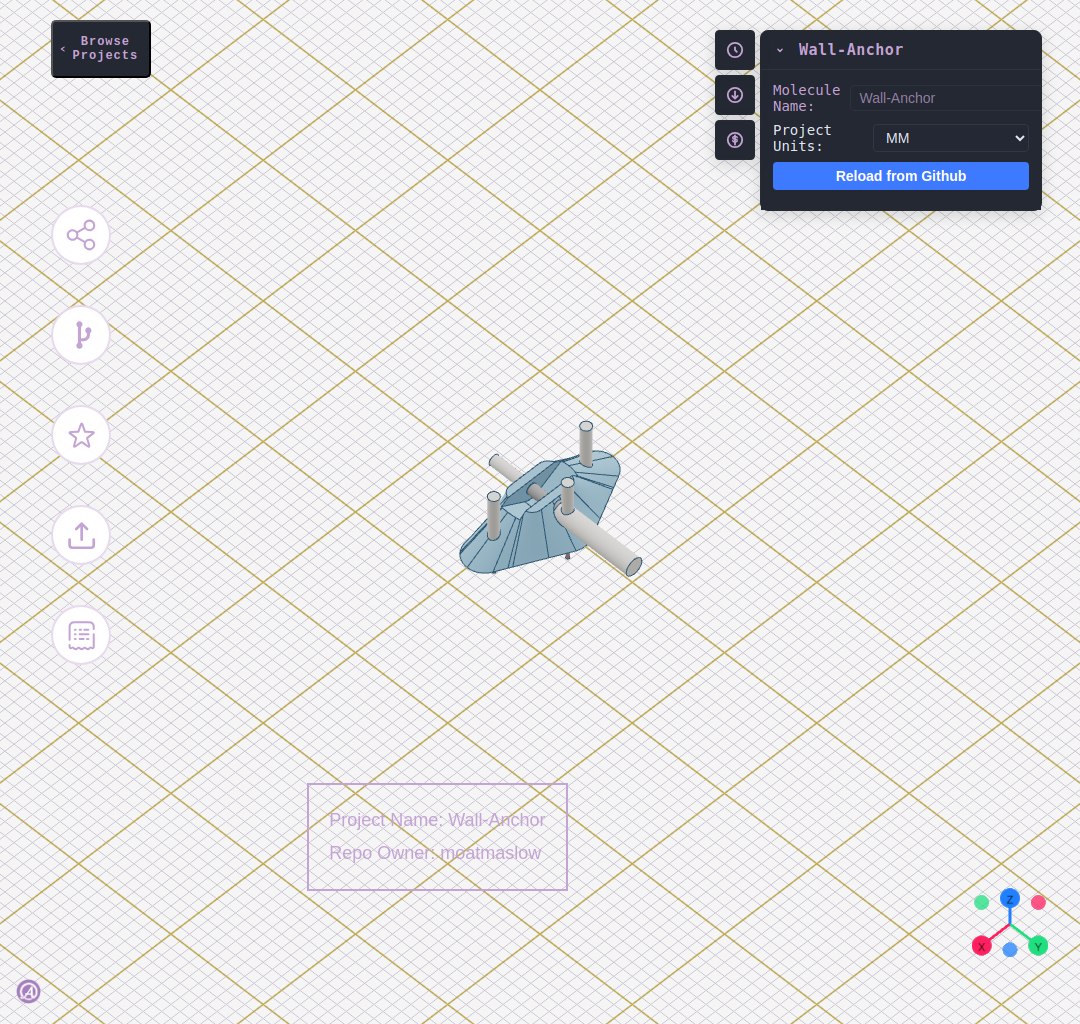
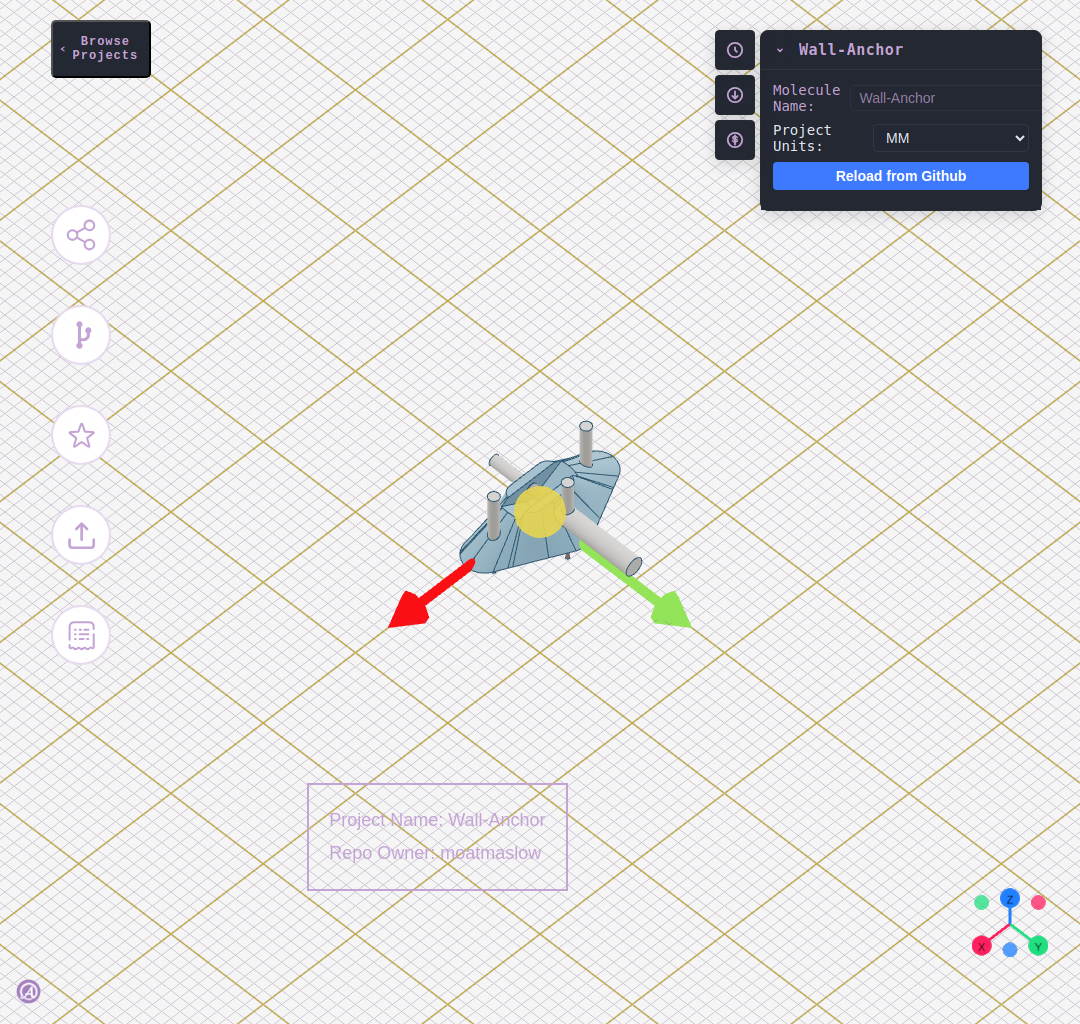
Add grid origin marker with colored axis arrows

diff --git a/src/components/render/GridOriginMarker.jsx b/src/components/render/GridOriginMarker.jsx
@@ -1,0 +1,62 @@
+import React from "react";
+
+/**
+ * GridOriginMarker component
+ * Adds visual indicators to show the origin (0,0,0) and positive axis directions on the XY plane
+ * - Red arrow for X+ direction
+ * - Green arrow for Y+ direction  
+ * - Golden sphere at the origin
+ * 
+ * The grid is in the XY plane with Z up (THREE.Object3D.DEFAULT_UP is set to [0,0,1])
+ * The grid itself is rotated Math.PI/2 around X-axis for display.
+ */
+const GridOriginMarker = ({ cellSection }) => {
+  // Calculate arrow dimensions based on grid scale
+  const arrowLength = cellSection * 15; // 15 grid cells long
+  const arrowHeadLength = cellSection * 3; // 3 grid cells
+  const arrowHeadWidth = cellSection * 1.5; // 1.5 grid cells
+  const shaftRadius = cellSection * 0.4; // Shaft thickness
+  
+  // Origin marker sphere size
+  const originSphereRadius = cellSection * 2;
+
+  return (
+    <group>
+      {/* X-axis arrow (Red) - pointing in positive X direction */}
+      <group>
+        {/* Arrow shaft - cylinder along X axis */}
+        <mesh position={[arrowLength / 2, 0, 0]} rotation={[0, 0, -Math.PI / 2]}>
+          <cylinderGeometry args={[shaftRadius, shaftRadius, arrowLength, 8]} />
+          <meshBasicMaterial color="#ff0000" />
+        </mesh>
+        {/* Arrow head - cone at end */}
+        <mesh position={[arrowLength, 0, 0]} rotation={[0, 0, -Math.PI / 2]}>
+          <coneGeometry args={[arrowHeadWidth, arrowHeadLength, 8]} />
+          <meshBasicMaterial color="#ff0000" />
+        </mesh>
+      </group>
+      
+      {/* Y-axis arrow (Green) - pointing in positive Y direction */}
+      <group>
+        {/* Arrow shaft - cylinder along Y axis */}
+        <mesh position={[0, arrowLength / 2, 0]} rotation={[0, 0, 0]}>
+          <cylinderGeometry args={[shaftRadius, shaftRadius, arrowLength, 8]} />
+          <meshBasicMaterial color="#00ff00" />
+        </mesh>
+        {/* Arrow head - cone at end */}
+        <mesh position={[0, arrowLength, 0]} rotation={[0, 0, 0]}>
+          <coneGeometry args={[arrowHeadWidth, arrowHeadLength, 8]} />
+          <meshBasicMaterial color="#00ff00" />
+        </mesh>
+      </group>
+      
+      {/* Origin marker - golden sphere at (0,0,0) */}
+      <mesh position={[0, 0, 0]}>
+        <sphereGeometry args={[originSphereRadius, 16, 16]} />
+        <meshBasicMaterial color="#FFD700" opacity={0.9} transparent depthTest={false} />
+      </mesh>
+    </group>
+  );
+};
+
+export default GridOriginMarker;

diff --git a/src/components/render/ThreeContext.jsx b/src/components/render/ThreeContext.jsx
@@ -8,6 +8,7 @@ import {
 import * as THREE from "three";
 import Controls from "./ThreeControls.jsx";
 import BackgroundModel from "./BackgroundModel.jsx";
+import GridOriginMarker from "./GridOriginMarker.jsx";
 import globalvariables from "../../js/globalvariables.js";
 import { useRendering, useAuth } from "../../contexts/index.js";
 
@@ -81,18 +82,21 @@ export default function ext({ children, cameraZoom, ...otherProps }) {
           position={[3000, 3000, 5000]}
         />
         {gridParam ? (
-          <Grid
-            position={[0, 0, 0]}
-            cellSize={cellSection}
-            args={[10000, 10000]}
-            cellColor={"#726482"}
-            fadeFrom={0}
-            lineColor={"#BFA301"}
-            sectionColor={"#BFA301"}
-            fadeDistance={9000}
-            rotation={[Math.PI / 2, 0, 0]}
-            sectionSize={cellSection * 10}
-          />
+          <>
+            <Grid
+              position={[0, 0, 0]}
+              cellSize={cellSection}
+              args={[10000, 10000]}
+              cellColor={"#726482"}
+              fadeFrom={0}
+              lineColor={"#BFA301"}
+              sectionColor={"#BFA301"}
+              fadeDistance={9000}
+              rotation={[Math.PI / 2, 0, 0]}
+              sectionSize={cellSection * 10}
+            />
+            <GridOriginMarker cellSection={cellSection} />
+          </>
         ) : null}
         <Controls axesParam={axesParam} enableDamping={false}></Controls>
 
